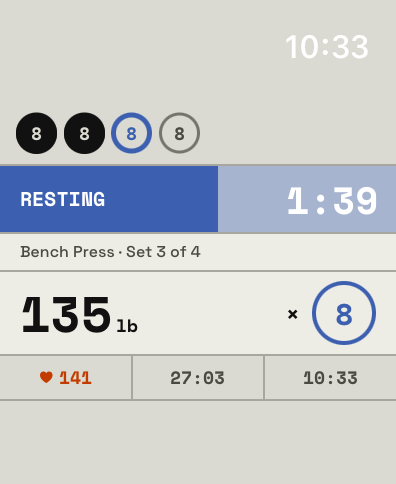
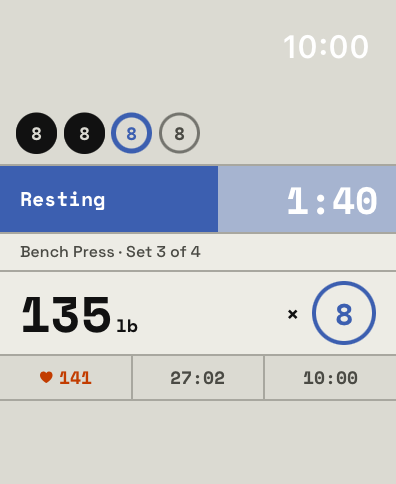
Release 0.20.0: change log, store notes, Apple Watch screenshots

diff --git a/changes/0.20.0.md b/changes/0.20.0.md
@@ -1,0 +1,18 @@
+2026-11-13
+
+- Skip on the warmup row skips one warmup at a time, not all of them.
+- The weight sheet in a workout has a Sets stepper: add sets to an exercise or take away ones you haven't done.
+- The workout's progress bar reaches the end when you finish, even if you skipped warmups.
+- The rest countdown bar runs out exactly when the rest does.
+- A Motivation button in a workout shows that workout's motivational quote; a finished workout shows the one it was done under.
+- Every page opened from the menu has just a title and a back arrow; Log and Heart open as pages with the workout's status still showing underneath.
+- Text is no longer written in all capitals.
+- One typeface for words throughout; the mono face is kept for numbers and clocks.
+- The time estimate no longer learns from sets tapped through in a second or two.
+- A new look: no banner on the workout, sections that run the full width, rounded buttons and boxes, and a workout screen that fits more on a small phone.
+- Lifting is green, on the phone and the watches.
+- A new app icon: a barbell's plates.
+- Multiplayer is a button at the top of home and the workout; heart rate, time and the log open from boxes above your status.
+- Editing a ready-made workout says Edit, and makes it yours when you save.
+- Your workout shows as a live status while the app is out of sight, with its clock: on Android in your notifications, lock screen and status bar, on iPhone on the lock screen and in the Dynamic Island.
+- The website lists live status and motivation, and its pictures and the store screenshots show the new look.

diff --git a/release-notes/0.20.0.md b/release-notes/0.20.0.md
@@ -1,0 +1,8 @@
+A new look, and your workout on the lock screen.
+
+• Your workout shows live while the app is closed: lock screen and Dynamic Island on iPhone, notifications and status bar on Android.
+• Cleaner screens: no banner in a workout, simpler menus, a new icon.
+• Change the number of sets mid-workout. Skip skips one warmup.
+• A motivational quote for every workout.
+• Lifting is green.
+• Better time estimates.
